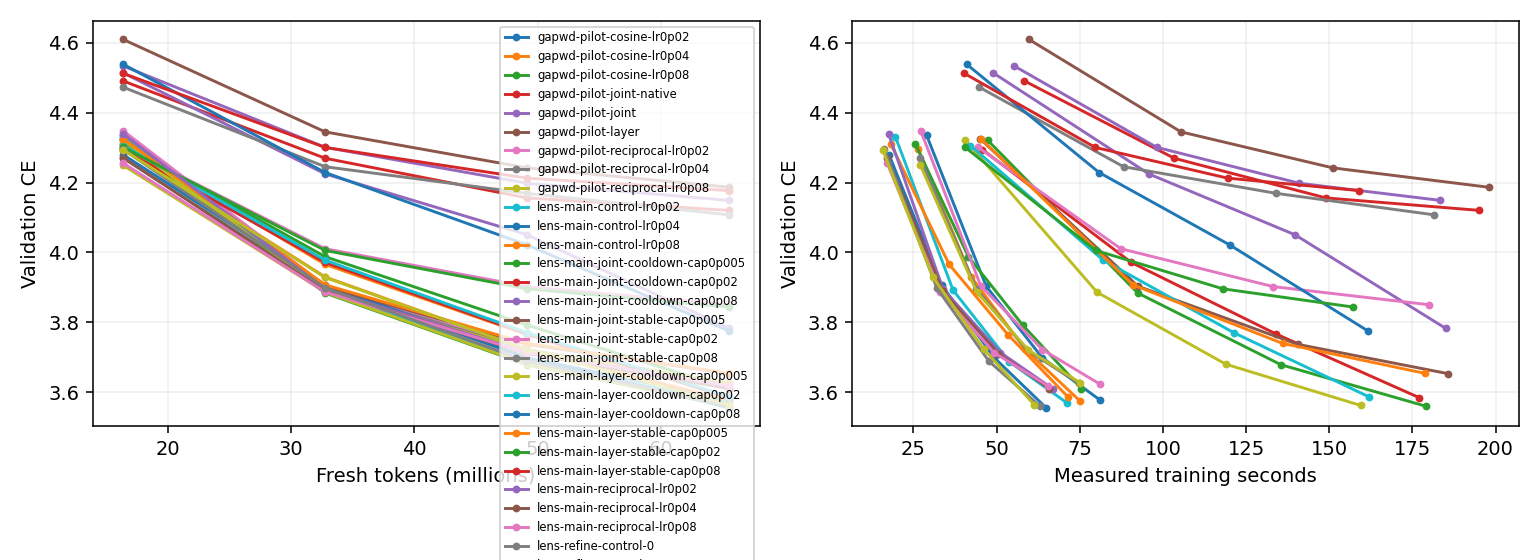
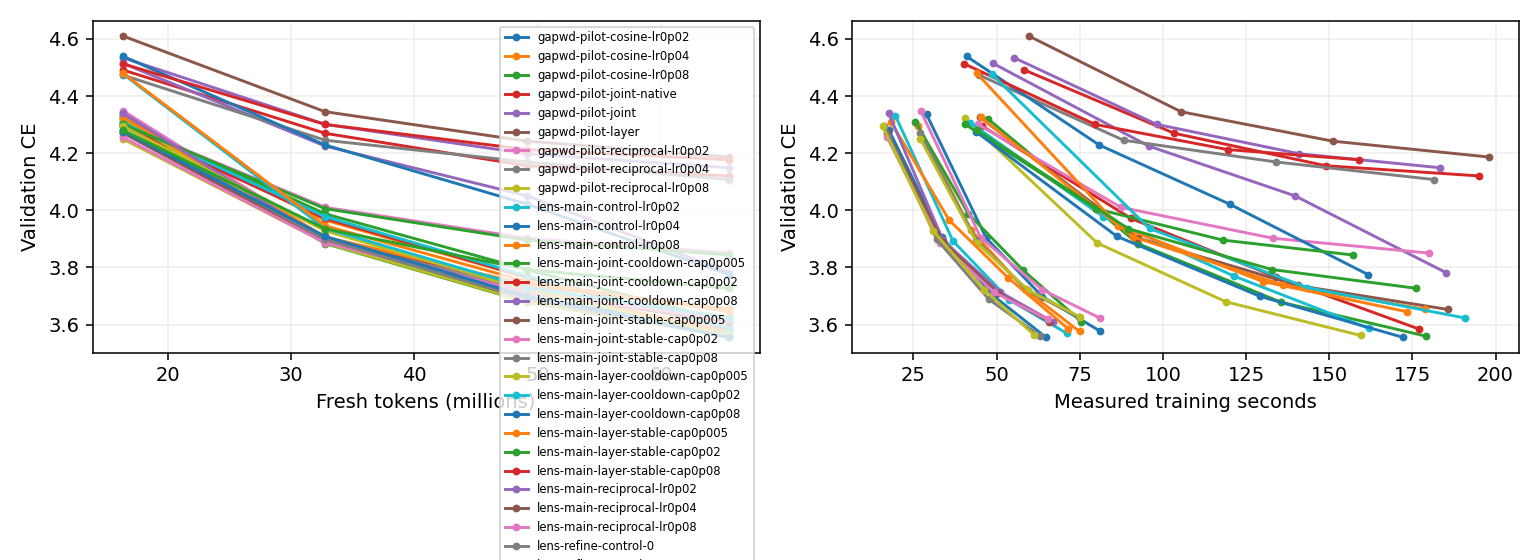
Update live Muon experiment results

diff --git a/research/unnormalized_muon/RESULTS.md b/research/unnormalized_muon/RESULTS.md
@@ -87,6 +87,10 @@ One B300 per job. CE is token cross-entropy (nats); lower is better. Rows with d
 | um-lens-main-reciprocal-lr0p08 | Clean Muon shifted reciprocal v2 c-in-Q fixed_lambda=0.18375 WD:standard(0) | 2000 | 0 | 0.08 | 3.617905 | 1.096810 | — | 149.97 |
 | um-lens-refine-control-0 | Clean Native cooldown v2 c-in-Q fixed_lambda=0.18375 WD:standard(0) | 2000 | 0 | 0.0282843 | 3.559476 | 1.079044 | — | 114.70 |
 | um-lens-refine-control-1 | Clean Native cooldown v2 c-in-Q fixed_lambda=0.18375 WD:standard(0) | 2000 | 0 | 0.0565685 | 3.563508 | 1.080334 | — | 115.07 |
+| um-lens-refine-joint-cooldown-0 | Clean GapWD joint uniform v2 c-in-Q quadratic cap0.0025/cooldown fixed_lambda=0.18375 WD:standard(0) | 2000 | 0 | 0.04 | 3.623444 | 1.098428 | — | 274.70 |
+| um-lens-refine-joint-cooldown-1 | Clean GapWD joint uniform v2 c-in-Q quadratic cap0.01/cooldown fixed_lambda=0.18375 WD:standard(0) | 2000 | 0 | 0.04 | 3.555091 | 1.077761 | — | 256.27 |
+| um-lens-refine-joint-stable-0 | Clean GapWD joint uniform v2 c-in-Q quadratic cap0.0025/stable fixed_lambda=0.18375 WD:standard(0) | 2000 | 0 | 0.04 | 3.645341 | 1.105051 | — | 257.49 |
+| um-lens-refine-joint-stable-1 | Clean GapWD joint uniform v2 c-in-Q quadratic cap0.01/stable fixed_lambda=0.18375 WD:standard(0) | 2000 | 0 | 0.04 | 3.727101 | 1.129865 | — | 262.87 |
 | um-screen-00-0-native-lr0p005 | Native cooldown | 2000 | 0 | 0.005 | 3.734536 | 1.132046 | — | 145.49 |
 | um-screen-00-1-scaled-lr0p0002 | Unnormalized cooldown | 2000 | 0 | 0.0002 | 4.818060 | 1.460343 | — | 153.42 |
 | um-screen-00-2-constant-lr0p0002 | Unnormalized constant | 2000 | 0 | 0.0002 | 4.581043 | 1.388601 | — | 151.98 |
@@ -142,7 +146,7 @@ One B300 per job. CE is token cross-entropy (nats); lower is better. Rows with d
 
 Review of um-fw-diagnostic-001: Compiled training f0 compared against functional candidate losses; vanishing-step mismatch2-4e-5 exceeded tolerance, leading to curvature1e186 and45 skipped steps. Replaced by paired functional reference and candidates; retain all645 measured forwards and GPUcost.
 
-Conservative charged/reserved total: 10.7754 / 30 B300 GPU-hours. Includes prior smoke/failed attempts and current maximum-duration reservations. Six-slot central queue; one B300 per run.
+Conservative charged/reserved total: 10.9377 / 30 B300 GPU-hours. Includes prior smoke/failed attempts and current maximum-duration reservations. Six-slot central queue; one B300 per run.
 
 CLEAN geometry disables row equilibration and NorMuon. Original clean runs use zero matrix decay; new WD runs explicitly label standard or cautious decay and their CLI coefficient. Same five Polar Express steps and Frobenius correction; scale by the per-matrix nonnegative FP32 inner product of the native Nesterov input with the NS/Frobenius direction. Shape scaling occurs once outside the scalar. Legacy rows retain production extras and must be compared separately. Constant schedule changes only matrix LR; auxiliary schedules and momentum remain matched.
 

diff --git a/research/unnormalized_muon/DETAILED_EVAL.md b/research/unnormalized_muon/DETAILED_EVAL.md
@@ -356,3 +356,27 @@ Timing seconds: direction=55.587, reference=14.607, candidates=14.695, auxiliary
 | um-lens-main-reciprocal-lr0p08 | fw_reciprocal native | 0.1837499 | 2000 | 3.617905 | 0 | 149.97 |
 | um-lens-refine-control-0 | cooldown native | 0.1837499 | 2000 | 3.559476 | 0 | 114.70 |
 | um-lens-refine-control-1 | cooldown native | 0.1837499 | 2000 | 3.563508 | 0 | 115.07 |
+| um-lens-refine-joint-cooldown-0 | joint native | 0.1837499 | 2000 | 3.623444 | 5997 | 274.70 |
+
+um-lens-refine-joint-cooldown-0: accepted 1996/2000; skipped nonpositive blocks 252; median actual eta 0.00189803; median gamma 0.000348763; median L 0.04; median trials 2; max measured spectral ratio lambda*||W||op=0.308598. Native approximate NS can violate the ideal unit-oracle premise; this is recorded, not hidden.
+
+Timing seconds: direction=67.685, reference=15.124, candidates=28.658, auxiliary=1.924.
+
+| um-lens-refine-joint-cooldown-1 | joint native | 0.1837499 | 2000 | 3.555091 | 6001 | 256.27 |
+
+um-lens-refine-joint-cooldown-1: accepted 2000/2000; skipped nonpositive blocks 97; median actual eta 0.00759212; median gamma 0.00139505; median L 0.01; median trials 2; max measured spectral ratio lambda*||W||op=0.39888. Native approximate NS can violate the ideal unit-oracle premise; this is recorded, not hidden.
+
+Timing seconds: direction=57.274, reference=14.257, candidates=27.698, auxiliary=1.720.
+
+| um-lens-refine-joint-stable-0 | joint native | 0.1837499 | 2000 | 3.645341 | 5995 | 257.49 |
+
+um-lens-refine-joint-stable-0: accepted 1996/2000; skipped nonpositive blocks 239; median actual eta 0.0025; median gamma 0.000459375; median L 0.04; median trials 2; max measured spectral ratio lambda*||W||op=0.287777. Native approximate NS can violate the ideal unit-oracle premise; this is recorded, not hidden.
+
+Timing seconds: direction=55.058, reference=14.577, candidates=28.078, auxiliary=1.955.
+
+| um-lens-refine-joint-stable-1 | joint native | 0.1837499 | 2000 | 3.727101 | 6001 | 262.87 |
+
+um-lens-refine-joint-stable-1: accepted 2000/2000; skipped nonpositive blocks 94; median actual eta 0.01; median gamma 0.0018375; median L 0.01; median trials 2; max measured spectral ratio lambda*||W||op=0.361899. Native approximate NS can violate the ideal unit-oracle premise; this is recorded, not hidden.
+
+Timing seconds: direction=54.074, reference=14.283, candidates=27.896, auxiliary=1.739.
+

diff --git a/research/unnormalized_muon/FW_LENS_RESULTS.md b/research/unnormalized_muon/FW_LENS_RESULTS.md
@@ -37,6 +37,10 @@ Token-based schedule curves are descriptive. Independently scheduled equal-time 
 | um-lens-main-reciprocal-lr0p08 | reciprocal | 2000 updates | 0 | 3.617905 | — | 65.564 | 0 | 40.199 | 149.97 |
 | um-lens-refine-control-0 | control | 2000 updates | 0 | 3.559476 | — | 63.222 | 0 | 23.534 | 114.70 |
 | um-lens-refine-control-1 | control | 2000 updates | 0 | 3.563508 | — | 61.486 | 0 | 24.116 | 115.07 |
+| um-lens-refine-joint-cooldown-0 | joint-cooldown | 2000 updates | 0 | 3.623444 | — | 190.861 | 5997 | 38.859 | 274.70 |
+| um-lens-refine-joint-cooldown-1 | joint-cooldown | 2000 updates | 0 | 3.555091 | — | 172.412 | 6001 | 38.700 | 256.27 |
+| um-lens-refine-joint-stable-0 | joint-stable | 2000 updates | 0 | 3.645341 | — | 173.432 | 5995 | 39.220 | 257.49 |
+| um-lens-refine-joint-stable-1 | joint-stable | 2000 updates | 0 | 3.727101 | — | 176.259 | 6001 | 40.371 | 262.87 |
 
 ## Adaptive diagnostics and contraction
 
@@ -62,5 +66,9 @@ Contraction is the actual coefficient product_t(1-lambda*eta_l,t), represented i
 | um-lens-main-layer-stable-cap0p005 | 2000/2000 | 0 | 0.005 | 0.00091875 | 1e-16 | 1 | -1.82 to -1.8 | 0.305951 |
 | um-lens-main-layer-stable-cap0p02 | 2000/2000 | 0 | 0.02 | 0.003675 | 1e-16 | 1 | -7.286 to -7.098 | 0.460939 |
 | um-lens-main-layer-stable-cap0p08 | 2000/2000 | 0 | 0.08 | 0.0147 | 1e-16 | 1 | -28.98 to -27.8 | 0.790492 |
+| um-lens-refine-joint-cooldown-0 | 1996/2000 | 0 | 0.001898 | 0.00034876 | 0.04 | 2 | -0.625 to -0.625 | 0.308598 |
+| um-lens-refine-joint-cooldown-1 | 2000/2000 | 0 | 0.0075921 | 0.0013951 | 0.01 | 2 | -2.507 to -2.507 | 0.39888 |
+| um-lens-refine-joint-stable-0 | 1996/2000 | 0 | 0.0025 | 0.00045937 | 0.04 | 2 | -0.9084 to -0.9084 | 0.287777 |
+| um-lens-refine-joint-stable-1 | 2000/2000 | 0 | 0.01 | 0.0018375 | 0.01 | 2 | -3.642 to -3.642 | 0.361899 |
 
 Curvature values in Armijo variants parameterize proposals; their acceptance is NOT a certificate of the quadratic upper model. Final spectral ratios are lambda*||W_l||op/c_l; native approximate NS output is not certified to have unit spectral norm. Initial/final iterate feasibility alone does not certify oracle accuracy. Cold two-second clock checks intentionally permit one-update overshoot; do not use them as quality endpoints.
